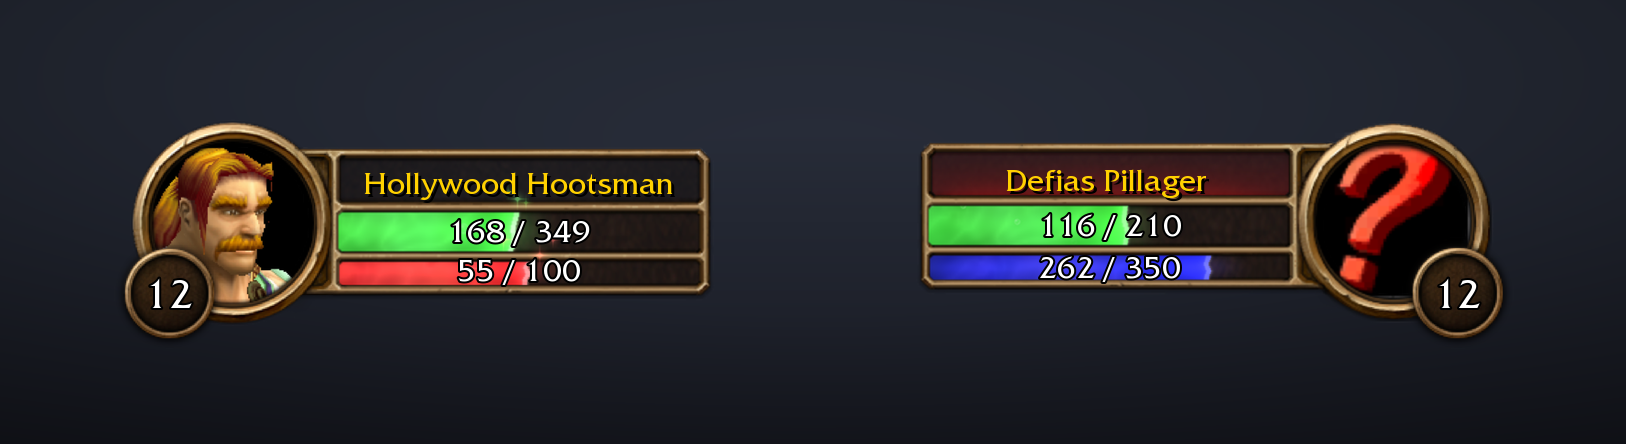
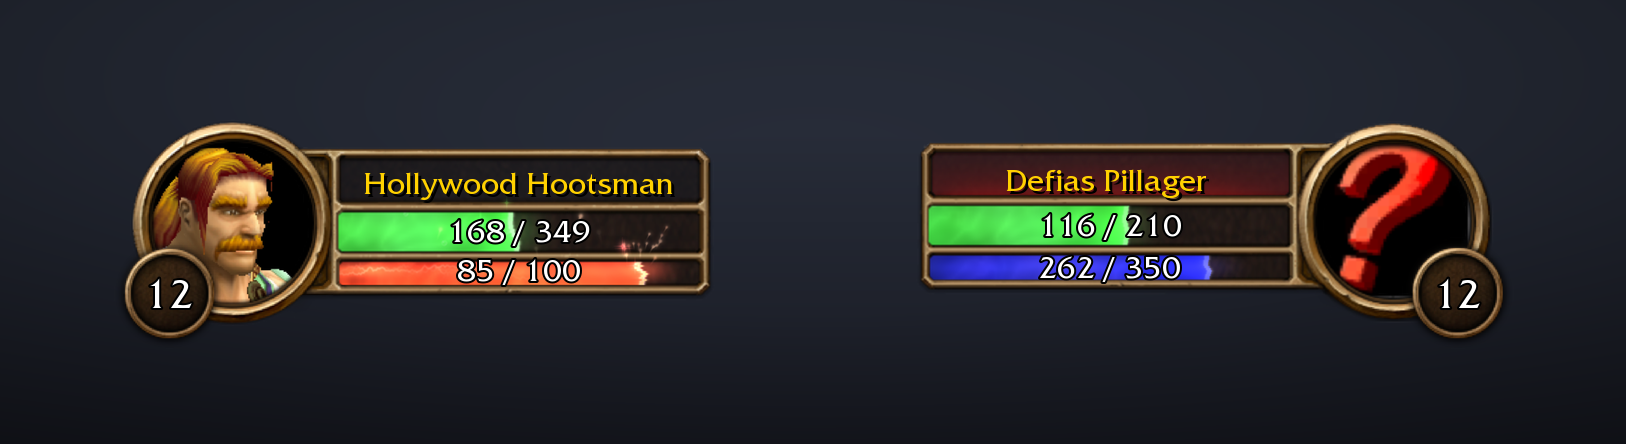
Add a Rage Fury gallery scenario and show the fury in the hero image
The fury scenario is a warrior building rage to full and spending it back to
40% on Heroic Strikes and a Hamstring. The hero's rage now climbs to 85% and
two Heroic Strikes spend it, so the README's first image shows the fury. The
gallery hands the mock the scripted rage for the fury's curve, and clears the
masks of regions built after login. The README and CurseForge page describe
Rage Fury with the new image.

Changed region(s): [[0.1845, 0.4392, 0.4305, 0.6441]]

diff --git a/tools/harness/gallery.py b/tools/harness/gallery.py
@@ -2,7 +2,7 @@
 
 Usage: python gallery.py <addon dir> [out dir] [scenario ...]
 Default out dir: branding/gallery. Writes each scenario as an animated WebP (hero is the warrior, then
-mage, rogue, then warlock and rend, whose targets carry the DoT marker, priest, with the heal marker, druid, with both, eating, a meal up to its buff, and mana, the build-up to mana regenerating), frames.png (a still of the warrior), themes.png (the player frame in a few themes) and plates.webp (four nameplates, from the plate art capture_art.py --plates cut out).
+mage, rogue, then warlock and rend, whose targets carry the DoT marker, priest, with the heal marker, druid, with both, eating, a meal up to its buff, mana, the build-up to mana regenerating, and fury, a warrior's rage building to full and spent), frames.png (a still of the warrior), themes.png (the player frame in a few themes) and plates.webp (four nameplates, from the plate art capture_art.py --plates cut out).
 A full run takes about a quarter of an hour.
 
 The frame art comes from branding/art, which tools/capture_art.py cuts out of the screenshots /sab
@@ -42,19 +42,27 @@ BANNER = (0.8, 0.1, 0.1)  # the target's name banner, hostile
 ORDER = [("player", "health"), ("player", "power"), ("target", "health"), ("target", "power")]
 POWER = {"MANA": 0, "RAGE": 1, "FOCUS": 2, "ENERGY": 3}
 
+# Spells that cost rage (Heroic Strike, Hamstring), and __rage(id, guid) casting one, for Rage Fury's bursts.
+RAGE_SETUP = """
+    __spellCosts[78] = { { type = 1, name = 'RAGE', cost = 15 } }
+    __spellCosts[1715] = { { type = 1, name = 'RAGE', cost = 10 } }
+    function __rage(id, guid) __fire('UNIT_SPELLCAST_SUCCEEDED', 'player', guid, id) end
+"""
+
 # Each scenario: the player (name, level, power type), the target, bar maxima (player health and
 # power, target health and power), and a loop of { seconds, the four bars as fractions }. A new
 # target comes in at full health. With regen (a fraction of the bar per second), the player's power refills
 # continuously, as energy and mana do on Forever, rather than in steps: each drop in its column is a spend, and
 # its rises are ignored. spends: (seconds, fraction) in place of the column, with power_start where it begins.
 SCENARIOS = {
-    # Rage builds as blows land and is spent on strikes.
+    # Rage builds as blows land, the bar heating up (Rage Fury), and two Heroic Strikes burst it back down.
     "hero": dict(
         player="Hollywood Hootsman", level="12", power="RAGE", target="Defias Pillager", target_level="12",
-        maxes=(349, 100, 210, 350), loop=8.4,
-        script=[(0.0, 1.00, 0.10, 1.00, 0.90), (1.2, 0.72, 0.30, 0.80, 0.90), (2.2, 0.72, 0.30, 0.55, 0.75),
-                (3.0, 0.48, 0.55, 0.55, 0.75), (4.0, 0.48, 0.25, 0.25, 0.60), (5.0, 0.85, 0.25, 0.25, 0.60),
-                (6.0, 0.85, 0.50, 0.00, 0.60), (7.2, 1.00, 0.10, 1.00, 0.90)]),
+        maxes=(349, 100, 210, 350), loop=8.4, setup=RAGE_SETUP,
+        script=[(0.0, 1.00, 0.10, 1.00, 0.90), (1.2, 0.72, 0.35, 0.80, 0.90), (2.2, 0.72, 0.60, 0.55, 0.75),
+                (3.0, 0.48, 0.85, 0.55, 0.75), (4.0, 0.48, 0.70, 0.40, 0.60), (4.4, 0.48, 0.55, 0.25, 0.60),
+                (5.0, 0.85, 0.55, 0.25, 0.60), (6.0, 0.85, 0.80, 0.00, 0.60), (7.2, 1.00, 0.10, 1.00, 0.90)],
+        events=[(4.0, "__rage(78, 'Cast-1')"), (4.4, "__rage(78, 'Cast-2')")]),
     # Each Fireball takes a big bite of mana and of the target; the kobold gets one swing in.
     "mage": dict(
         player="Mailbox Hootsman", level="12", power="MANA", target="Kobold Geomancer", target_level="11",
@@ -142,6 +150,19 @@ SCENARIOS = {
                 (3.4, "__hit(4, 64)"), (4.8, "__healStart(5185, 'Cast-3')"), (6.4, "__hit(4, 64)"),
                 (7.3, "__healDone(5185, 'Cast-3')"), (9.4, "__hit(4, 64)"),
                 (9.6, "__dotsCast(8921, 'Cast-4'); __hit(11, 64)"), (12.6, "__hit(4, 64)")]),
+    # Rage Fury: a warrior trading blows, rage climbing with every hit taken and landed until the bar is full and
+    # furious, throbbing there a while; then Heroic Strikes and a Hamstring spend it back to 40%, each spend a burst,
+    # the pillager falls and the next one comes in.
+    "fury": dict(
+        player="Hollywood Hootsman", level="12", power="RAGE", target="Defias Pillager", target_level="12",
+        maxes=(349, 100, 210, 350), loop=12.0, portrait="hero", setup=RAGE_SETUP,
+        script=[(0.0, 1.00, 0.40, 1.00, 0.90), (0.8, 0.93, 0.52, 1.00, 0.90), (1.6, 0.93, 0.61, 0.92, 0.90),
+                (2.4, 0.86, 0.72, 0.92, 0.90), (3.2, 0.86, 0.83, 0.84, 0.90), (4.0, 0.79, 0.92, 0.84, 0.90),
+                (4.8, 0.79, 1.00, 0.76, 0.90), (6.0, 0.72, 1.00, 0.76, 0.90), (7.2, 0.72, 0.85, 0.60, 0.90),
+                (8.0, 0.72, 0.70, 0.44, 0.90), (8.8, 0.66, 0.60, 0.38, 0.90), (9.6, 0.66, 0.45, 0.20, 0.90),
+                (10.4, 0.66, 0.40, 0.00, 0.90), (11.2, 1.00, 0.40, 1.00, 0.90)],
+        events=[(7.2, "__rage(78, 'Cast-1')"), (8.0, "__rage(78, 'Cast-2')"), (8.8, "__rage(1715, 'Cast-3')"),
+                (9.6, "__rage(78, 'Cast-4')")]),
     # Eating, on the player frame alone: from 20% health the food goes up as Honey, the health rising into it tick by
     # tick. The bar builds up for ten seconds and lets go in stars as the druid becomes well fed; slow stars
     # follow until it stands up.
@@ -330,8 +351,14 @@ def start(settings, power="RAGE", dots="", events=()):
                 end
             end
         end
-        -- The bar masks have no art in the mock; the captured ones are applied here instead.
-        for _, r in ipairs(__regions) do r.masks = nil end
+        -- The bar masks have no art in the mock; the captured ones are applied here instead. Regions made later (the
+        -- rage fury, built on the bar's first update) lose theirs as they come.
+        local unmasked = 0
+        function __unmask()
+            for i = unmasked + 1, #__regions do __regions[i].masks = nil end
+            unmasked = #__regions
+        end
+        __unmask()
     """
     return render.Session(ADDON, settings=settings, before_login=before, after_login=after, scenario=events)
 
@@ -521,7 +548,7 @@ def portrait_for(art, key):
     name = f"portrait-{key}"
     if name in art:
         return name
-    if key in ("hero", "rend"):
+    if key in ("hero", "rend", "fury"):
         return "player-portrait"
     print(f"  no {name}.png yet: using the capturing character's portrait")
     return "player-portrait"
@@ -534,6 +561,7 @@ def scenario(art, key):
     if "heals" in sc:
         dots += heals_setup(sc["cls"], sc["heals"])
     events = sc.get("events", ())
+    dots += sc.get("setup", "")
     if "rule_wait" in sc:
         dots += rule_setup()
         events = [(when, f"__spend('Cast-{i}')") for i, (when, _) in enumerate(sc["spends"])]
@@ -569,7 +597,10 @@ def scenario(art, key):
                 if which == "target" and kind == "health" and goal[k] > shown[k] + 0.5:
                     fills[k] = goal[k]  # a new target: its bar does not ease up
         shown = goal
+        # The client's share of the player's power, for the rage fury's curve (it eases nothing, unlike the bar).
+        session.lua.execute(f"__powerPercent.player = {goal[('player', 'power')]}")
         session.run_until(t)
+        session.lua.execute("__unmask()")
         for k in ORDER:
             fills[k] += (goal[k] - fills[k]) * (1 - math.exp(-8 * dt))
         values = {k: round(goal[k] * maxes[k]) for k in ORDER}

diff --git a/branding/curseforge.md b/branding/curseforge.md
@@ -1,4 +1,4 @@
-![Smooth Animated Bars: liquid health and power bars on the player and target frames](https://raw.githubusercontent.com/Jordanburch101/smooth-animated-bars/refs/heads/main/branding/gallery/hero.webp)
+![Smooth Animated Bars: liquid health and power bars on the player and target frames, the rage heating to a fiery orange as it climbs and bursting in sparks with each Heroic Strike](https://raw.githubusercontent.com/Jordanburch101/smooth-animated-bars/refs/heads/main/branding/gallery/hero.webp)
 
 # Smooth Animated Bars
 
@@ -18,6 +18,7 @@ Your frames stay the game's own. Only the fill changes, so nothing moves: log in
 *   **25 themes:** keep the game's colours, or pick Class Color, Fire, Frost, Arcane, Shadow, Void and more, many with particles of their own. Each frame's health and power get their own choice, and Class Color shows each player's own class.
 *   **Your call on every effect:** waves, swirl, bubbles, sparkles, theme particles and lightning can each be switched off, and so can each bar.
 *   **Mana regen build-up:** your mana bar builds up through the five seconds after a spell, and lets go in a burst of stars as your mana starts to regenerate again.
+*   **Rage Fury:** your rage bar grows more furious as it fills, throbs at full rage, ready to burst, and bursts in sparks when you spend it.
 *   **A quick setup** the first time you log in, with preview frames that show each choice as you pick it, and the settings a right-click away on your frames.
 
 ![A mage's mana dropping in big bites with each Fireball, and the kobold's health with it](https://raw.githubusercontent.com/Jordanburch101/smooth-animated-bars/refs/heads/main/branding/gallery/mage.webp)
@@ -104,6 +105,20 @@ On by default, under Mana in the settings. After a spell that costs mana, your m
 *   **Another spell that costs mana starts the wait again.** Spells that cost none, like Shoot, do not.
 *   **It goes by your casts,** as WoW Forever keeps your mana hidden from addons. The burst still plays if your mana is already full, and Meditation and mp5 gear keep some mana coming back during the wait.
 
+
+## Rage Fury
+
+![A warrior trading blows, the red rage bar climbing and heating to a fiery orange crackling with lightning and spitting sparks, throbbing at full rage, then bursting in sparks with each Heroic Strike and Hamstring as it drops back to 40](https://raw.githubusercontent.com/Jordanburch101/smooth-animated-bars/refs/heads/main/branding/gallery/fury.webp)
+
+_Rage: the bar grows more furious as it fills, throbs at full, and bursts each time you spend it._
+
+On by default, under Rage in the settings.
+
+*   **It heats up** from about half rage: the red turns to a fiery orange, flames lick up inside, lightning crackles and sparks fly off the top, and its front trembles.
+*   **At full rage it throbs** like a heartbeat, ready to burst, throwing sparks from its front with each beat.
+*   **Spending rage lets it go:** every ability that costs rage throws sparks off the front, and while the bar was hot the whole fury flares and cools back to red at what is left.
+*   **It goes by your rage itself,** which WoW Forever keeps hidden from addons: the game fades the fury in, so it shows exactly as far as your rage has climbed. It shows on any rage bar: yours, a druid's in Bear Form, your target's.
+
 ## Make it yours
 
 ![The player frame's health in eight colours: Game Colour, Class Color, Fire, Frost, Arcane, Fel, Cosmic and Void](https://raw.githubusercontent.com/Jordanburch101/smooth-animated-bars/refs/heads/main/branding/gallery/themes.png)
@@ -116,6 +131,7 @@ Open the settings with `/sab`, from **Open Settings** when you right-click your 
 *   **Damage Over Time:** DoT Marker and Kill Icon.
 *   **Healing:** Heal Marker, for your heals, bandages, food and drink.
 *   **Mana:** Mana Regen Build-Up.
+*   **Rage:** Rage Fury.
 *   **Nameplates:** Enemy Nameplates and their Colour, Your DoTs on Nameplates, and Friendly Nameplates with a Colour of their own.
 *   **Setup Wizard:** run the six-step setup again. **What's New:** what changed in the latest versions.
 

diff --git a/README.md b/README.md
@@ -1,4 +1,4 @@
-<p align="center"><img src="https://raw.githubusercontent.com/Jordanburch101/smooth-animated-bars/refs/heads/main/branding/gallery/hero.webp" alt="Smooth Animated Bars: liquid health and rage bars on the player frame and liquid health and mana on the target frame, draining and refilling through a fight"></p>
+<p align="center"><img src="https://raw.githubusercontent.com/Jordanburch101/smooth-animated-bars/refs/heads/main/branding/gallery/hero.webp" alt="Smooth Animated Bars: liquid health and rage bars on the player frame and liquid health and mana on the target frame, draining and refilling through a fight, the rage heating to a fiery orange as it climbs and bursting in sparks with each Heroic Strike"></p>
 
 # Smooth Animated Bars
 
@@ -31,6 +31,8 @@ short setup on the first login lets you choose the look, or skip it.
   builds up to a burst of stars when you become well fed.
 - **Mana regen build-up:** your mana bar builds up through the five seconds after a spell, and lets go in a burst
   of stars as your mana starts to regenerate again.
+- **Rage Fury:** your rage bar grows more furious as it fills, throbs at full rage, ready to burst, and bursts in
+  sparks when you spend it.
 - **A quick setup** the first time you log in, with preview frames that show each choice as you pick it, and
   the settings a right-click away on your frames.
 
@@ -147,6 +149,22 @@ for five seconds, and your mana bar shows that wait:
 - **While you drink,** the drink takes over the bar. In a druid's Bear or Cat Form, nothing shows until the mana
   bar is back.
 
+## Rage Fury
+
+<p align="center"><img src="https://raw.githubusercontent.com/Jordanburch101/smooth-animated-bars/refs/heads/main/branding/gallery/fury.webp" alt="A warrior trading blows, the red rage bar climbing and heating to a fiery orange crackling with lightning and spitting sparks, throbbing at full rage, then bursting in sparks with each Heroic Strike and Hamstring as it drops back to 40"></p>
+<p align="center"><em>Rage: the bar grows more furious as it fills, throbs at full, and bursts each time you spend it.</em></p>
+
+On by default, under Rage in the settings.
+
+- **It heats up** from about half rage: the red turns to a fiery orange, flames lick up inside, lightning crackles
+  and sparks fly off the top, and its front trembles.
+- **At full rage it throbs** like a heartbeat, ready to burst, throwing sparks from its front with each beat.
+- **Spending rage lets it go:** every ability that costs rage throws sparks off the front, and while the bar was hot
+  the whole fury flares and cools back to red at what is left.
+- **It goes by your rage itself,** which WoW Forever keeps hidden from addons: the game fades the fury in, so it
+  shows exactly as far as your rage has climbed. It shows on any rage bar: yours, a druid's in Bear Form, your
+  target's.
+
 ## Make it yours
 
 <p align="center"><img src="https://raw.githubusercontent.com/Jordanburch101/smooth-animated-bars/refs/heads/main/branding/gallery/themes.png" alt="The player frame's health in eight colours: Game Colour, Class Color, Fire, Frost, Arcane, Fel, Cosmic and Void" width="760"></p>
@@ -166,6 +184,7 @@ your target's, pet's or focus's), or from Options > AddOns > Smooth Animated Bar
 - **Damage Over Time:** DoT Marker and Kill Icon.
 - **Healing:** Heal Marker, for your heals, bandages, food and drink.
 - **Mana:** Mana Regen Build-Up.
+- **Rage:** Rage Fury.
 - **Nameplates:** Enemy Nameplates and their Colour (the nameplate's own, any theme, or Same as Target), Your DoTs
   on Nameplates, and Friendly Nameplates with a Colour of their own.
 - **Setup Wizard:** run the six-step setup again. **What's New:** what changed in the latest versions.

diff --git a/CLAUDE.md b/CLAUDE.md
@@ -23,7 +23,7 @@ for players; `docs/DEVELOPMENT.md` covers the layout and tools; this file holds 
 - **Visual changes:** render a preview (`tools/harness/preview.py`) and look at it. Rebuild the gallery
   (`tools/harness/gallery.py`) when the liquid's look changes, and look at it before committing.
 - **Gallery:** `branding/gallery/` holds the README's images: animated WebP for each scenario (`hero`,
-  `mage`, `rogue`, `warlock` and `rend` with the DoT marker, `priest` with the heal marker, `druid` with both, `eating`, a meal up to its buff, `mana`, the build-up to mana regenerating, and `plates`, four Normal-style nameplates drawn from the captured plate art (`gallery.py`, `PLATES`), two with DoTs) and PNG stills (`frames.png`, `themes.png`), at full quality (`K = 3.0`, 20 fps). No GIFs.
+  `mage`, `rogue`, `warlock` and `rend` with the DoT marker, `priest` with the heal marker, `druid` with both, `eating`, a meal up to its buff, `mana`, the build-up to mana regenerating, `fury`, a warrior's rage building to full and spent back to 40%, and `plates`, four Normal-style nameplates drawn from the captured plate art (`gallery.py`, `PLATES`), two with DoTs) and PNG stills (`frames.png`, `themes.png`), at full quality (`K = 3.0`, 20 fps). No GIFs.
   A full run takes about a quarter of an hour, so run it in the background.
 - **Frame art:** `branding/art/` is Forever's own unit frame art, captured in game with `/sab capture` and
   cut out by `tools/capture_art.py`. It is only for the gallery and is never packaged. The layout numbers

diff --git a/docs/DEVELOPMENT.md b/docs/DEVELOPMENT.md
@@ -72,7 +72,7 @@ Capture again only if the game's frame art changes. The mage, rogue and warlock 
 characters' portraits: capture on each, then `capture_art.py --portrait mage --pair 2`, `--portrait rogue
 --pair 1` and `--portrait warlock --pair N` (the newest pair is the last capture; until a warlock portrait is
 captured, the warlock uses the capturing character's; `rend` is the warrior again). `gallery.py` takes scenario
-names to render only some: `hero`, `mage`, `rogue`, `warlock`, `rend`, `priest`, `druid`, `eating`, `mana`, `themes`. `eating` is the player frame alone, a meal up to its buff, with the druid's portrait. `mana` is the player frame alone, the build-up to mana regenerating, with the mage's portrait. The druid
+names to render only some: `hero`, `mage`, `rogue`, `warlock`, `rend`, `priest`, `druid`, `eating`, `mana`, `fury`, `themes`. `eating` is the player frame alone, a meal up to its buff, with the druid's portrait. `mana` is the player frame alone, the build-up to mana regenerating, with the mage's portrait. `fury` is the warrior's rage building to full and spent on Heroic Strikes and a Hamstring, through the addon's own Rage Fury. The druid
 carries both markers (Moonfire on the target, Rejuvenation and Healing Touch on itself) and has its own
 portrait (`--portrait druid`). The priest's
 health carries the heal marker (Holy, then a bandage's Nature), its casts going through the addon's own heal
